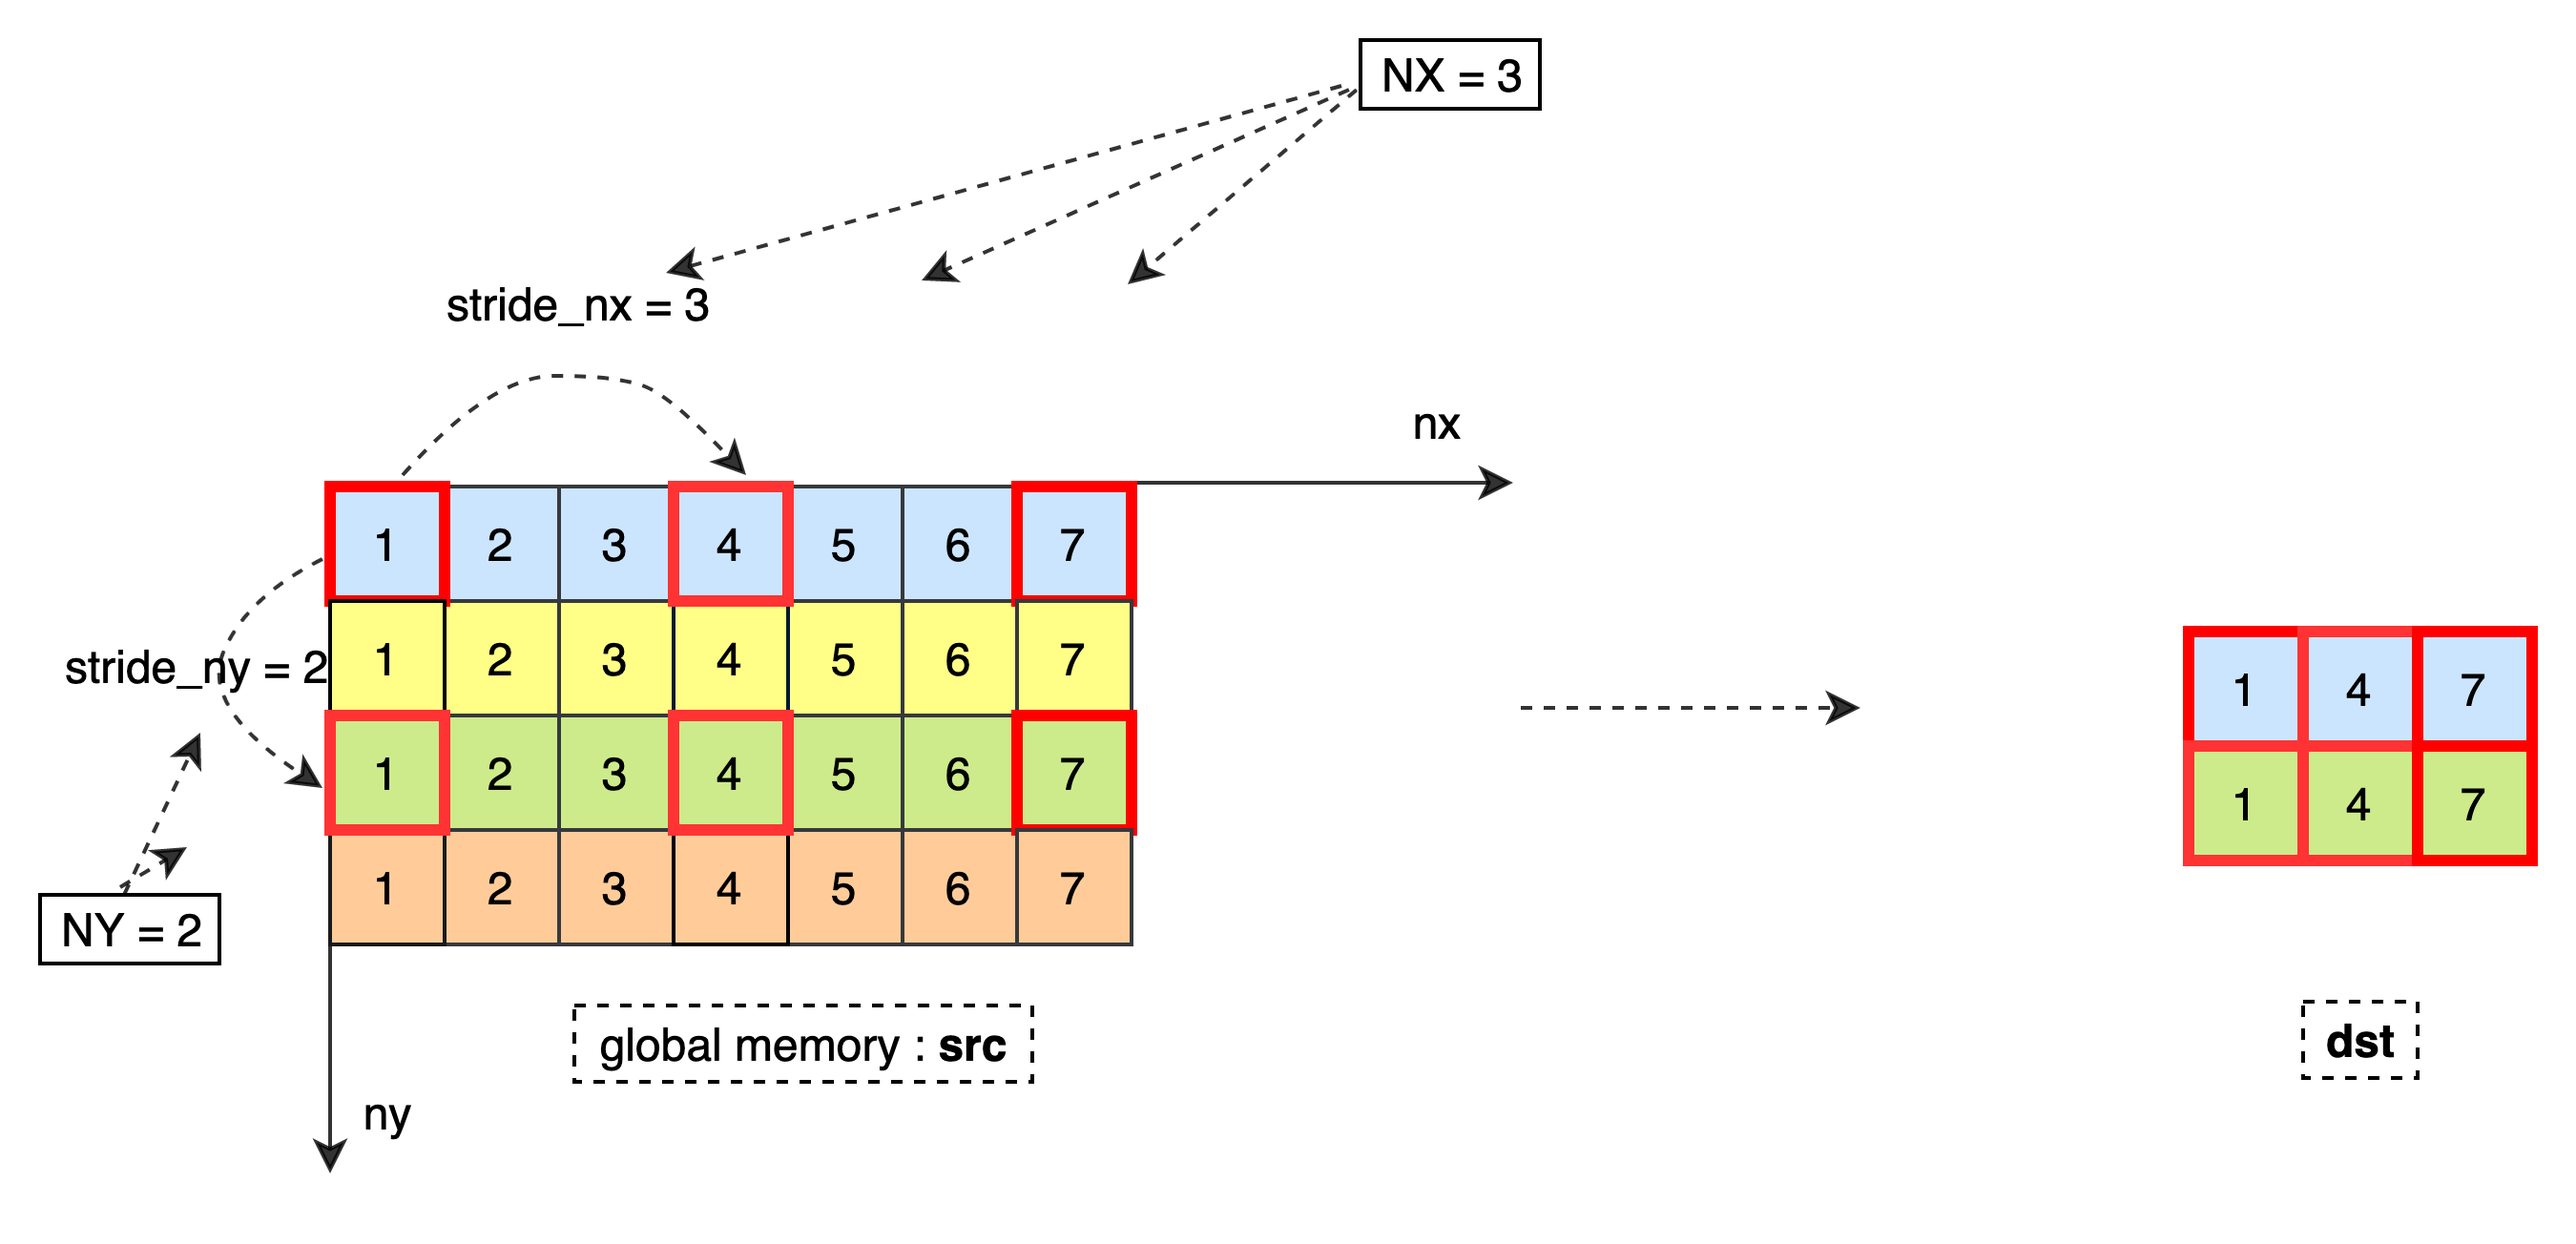
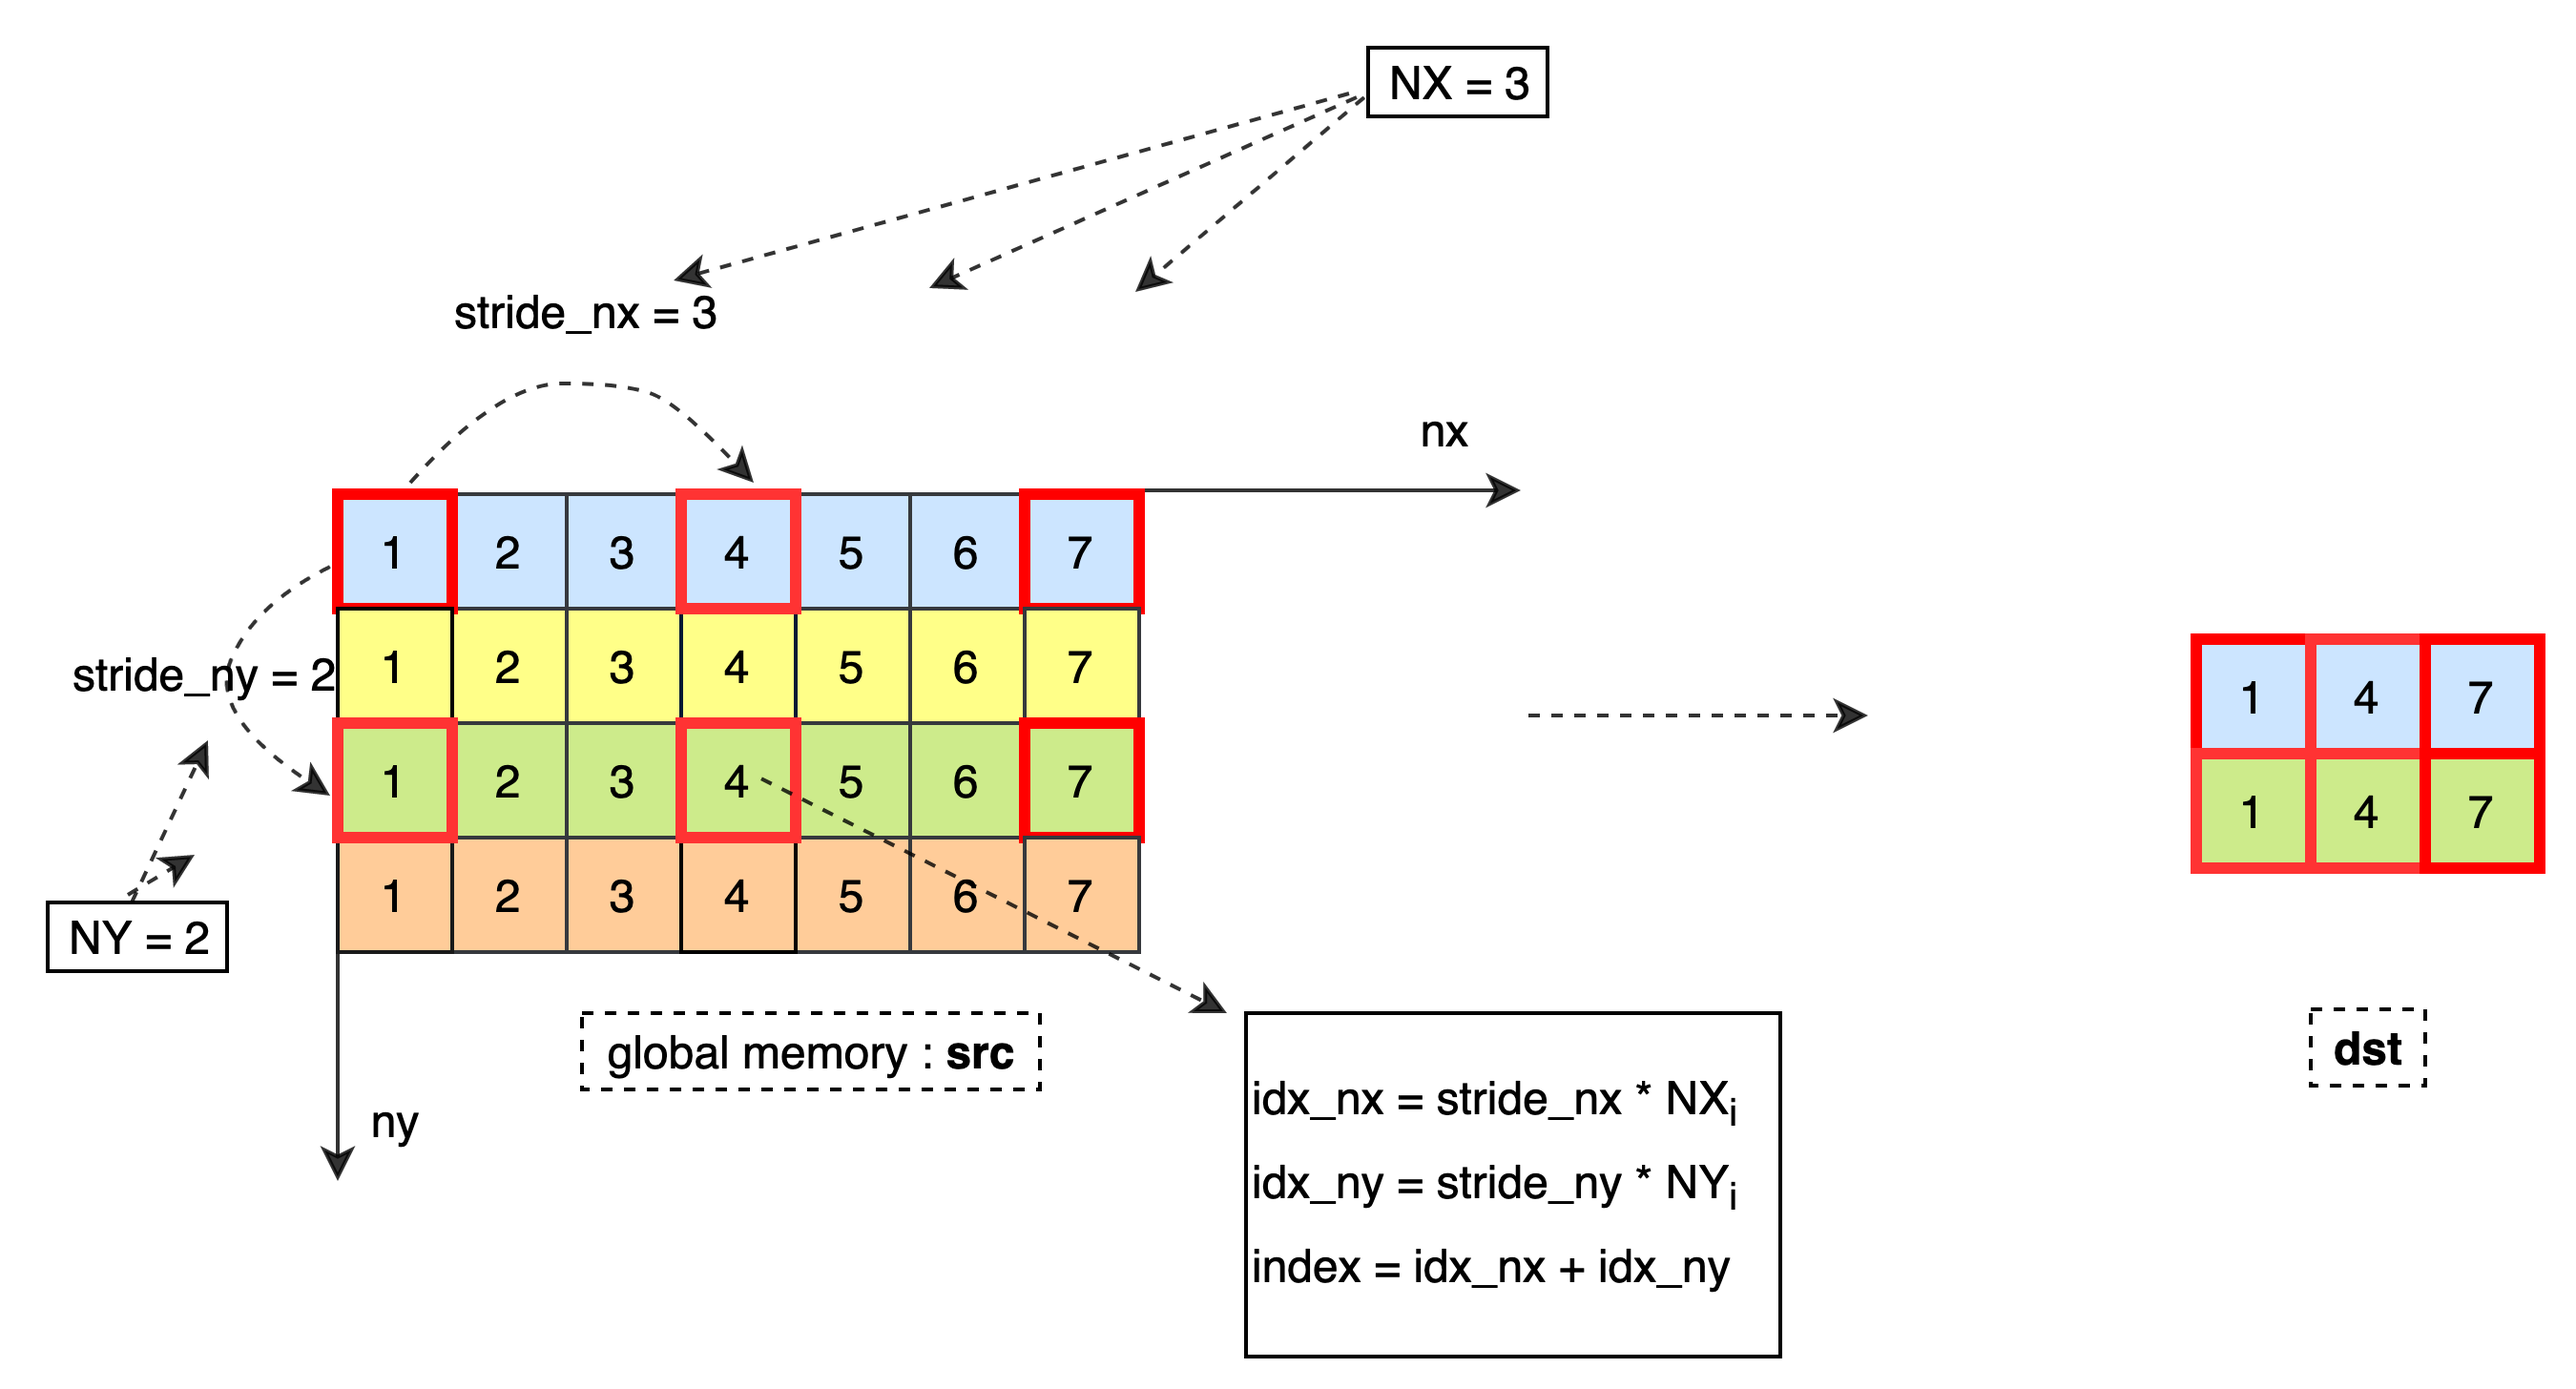
update image and notes

diff --git a/docs/guides/07_new_op/kernel_primitive_api/io_api_en.md b/docs/guides/07_new_op/kernel_primitive_api/io_api_en.md
@@ -10,7 +10,7 @@ __device__ void ReadData(Ty* dst, const Tx* src, int size_nx, int size_ny, int s
 
 ### Description
 
-Read the 2D data from the global memory to the register, and store it in the register dst according to the Ty type. Every reading of 1 column of data needs to shift the stride_nx columns, and every reading of NX columns of data needs to shift the stride_ny rows, until NX * NY data is loaded into the register dst. When IsBoundary = true, it is necessary to ensure that row offset of Block does not exceed size_ny, and columns offset does not exceed size_nx.</br>
+Read the Tx type 2D data from the global memory to the register, and store it in the register dst according to the Ty type. Each reading of 1 element in the lowest dimension requires an offset of stride_nx elements, and each reading of an element in the highest dimension requires an offset of stride_ny elements until NX * NY data is loaded into the register dst. When IsBoundary = true, it is necessary to ensure that the number of current highest dimension offsets does not exceed size_ny, and the number of column offsets does not exceed size_nx.
 The data processing process is as follows:</br>
 ![ReadData](./images/io_read_data_stride.png)
 
@@ -29,8 +29,8 @@ The data processing process is as follows:</br>
 > src: The input data pointer of the current Block, the data type is Tx, and the pointer calculation method is usually input + blockIdx.x * blockDim.x * NX. </br>
 > size_nx: Block needs to read size_nx columns data, the parameter is only used when IsBoundary = true. </br>
 > size_ny: Block needs to read size_ny rows data, the parameter is only used when IsBoundary = true. </br>
-> stride_nx: Each column of data read needs to be offset by the stride_nx columns. </br>
-> stride_ny: Each read NX columns needs to be offset by stride_nx rows. </br>
+> stride_nx: Stride_nx elements for every 1 element of the lowest dimension read. </br>
+> stride_ny: Stride_ny elements per read 1 element of the highest dimension read. </br>
 
 ## [ReadData](https://github.com/PaddlePaddle/Paddle/blob/develop/paddle/fluid/operators/kernel_primitives/datamover_primitives.h#L226)
 
@@ -97,8 +97,8 @@ The data processing process is as follows:</br>
 > block_offset: The data offset of the current Block, usually blockIdx.x * blockDim.x * NX. </br>
 > config: Input and output coordinate mapping function, which can be defined by BroadcastConfig(const std::vector<int64_t>& out_dims, const std::vector<int64_t>& in_dims, int dim_size). </br>
 > total_num_output: the total number of original output data, to avoid fetching out of bounds, the parameter is only used when IsBoundary = true. </br>
-> stride_nx: Each column of data read needs to be offset by the stride_nx columns. </br>
-> stride_ny: Each read NX columns needs to be offset by stride_nx rows. </br>
+> stride_nx: Stride_nx elements for every 1 element of the lowest dimension read. </br>
+> stride_ny: Stride_ny elements per read 1 element of the highest dimension read. </br>
 
 ## [ReadDataReduce](https://github.com/PaddlePaddle/Paddle/blob/develop/paddle/fluid/operators/kernel_primitives/datamover_primitives.h#L337)
 
@@ -149,8 +149,8 @@ The data processing process is as follows:</br>
 > config: Input and output coordinate mapping function, which can be defined as IndexCal(). </br>
 > size_nx: The Block needs to read the size_nx columns data. The parameter is only used when IsBoundary = true. </br>
 > size_ny: Block needs to read size_ny rows data, the parameter is only used when IsBoundary = true. </br>
-> stride_nx: Each column of data read needs to be offset by the stride_nx columns. </br>
-> stride_ny: Each read NX columns needs to be offset by stride_nx rows. </br>
+> stride_nx: Stride_nx elements for every 1 element of the lowest dimension read. </br>
+> stride_ny: Stride_ny elements per read 1 element of the highest dimension read. </br>
 > reduce_last_dim: Does the  operation involve the last dimension. When reduce_last_dim = true, it is indexed according to threadIdx.x, otherwise threadIdx.y is used. </br>
 
 ## [WriteData](https://github.com/PaddlePaddle/Paddle/blob/develop/paddle/fluid/operators/kernel_primitives/datamover_primitives.h#L421)

diff --git a/docs/guides/07_new_op/kernel_primitive_api/io_api_cn.md b/docs/guides/07_new_op/kernel_primitive_api/io_api_cn.md
@@ -10,7 +10,7 @@ __device__ void ReadData(Ty* dst, const Tx* src, int size_nx, int size_ny, int s
 
 ### 函数说明
 
-将 Tx 类型的 2D 数据从全局内存中读取到寄存器，并按照 Ty 类型存储到寄存器 dst 中。每读取 1 列数据需要偏移 stride_nx 列数据，每读取 NX 列数据需要偏移 stride_ny 行数据，直到加载 NX * NY 个数据到寄存器 dst 中。当 IsBoundary = true 需要保证当前 Block 行偏移不超过 size_ny，列偏移不超过 size_nx。</br>
+将 Tx 类型的 2D 数据从全局内存中读取到寄存器，并按照 Ty 类型存储到寄存器 dst 中。最低维每读取 1 个元素需要偏移 stride_nx 个元素，最高维每读取 1 个元素需要偏移 stride_ny 个元素，直到加载 NX * NY 个数据到寄存器 dst 中。当 IsBoundary = true 需要保证当前最高维偏移个数不超过 size_ny，列偏移个数不超过 size_nx。</br>
 数据处理过程如下：</br>
 
 ![ReadData](./images/io_read_data_stride.png)
@@ -30,8 +30,8 @@ __device__ void ReadData(Ty* dst, const Tx* src, int size_nx, int size_ny, int s
 > src ：当前 Block 的输入数据指针，数据类型为 Tx。</br>
 > size_nx ：Block 需要读取 size_nx 列数据，参数仅在 IsBoundary = true 时使用。</br>
 > size_ny ：Block 需要读取 size_ny 行数据，参数仅在 IsBoundary = true 时使用。</br>
-> stride_nx ：每读取 1 列数据需要偏移 stride_nx 列。</br>
-> stride_ny ：每读取 NX 列需要偏移 stride_nx 行。</br>
+> stride_nx ：最低维每读取 1 个元素 stride_nx 个元素。</br>
+> stride_ny ：最高维每读取 1 个元素 stride_ny 个元素。</br>
 
 ## [ReadData](https://github.com/PaddlePaddle/Paddle/blob/develop/paddle/fluid/operators/kernel_primitives/datamover_primitives.h#L226)
 
@@ -46,6 +46,7 @@ __device__ void ReadData(T* dst, const T* src, int num);
 
 将 T 类型的 1D 数据从全局内存 src 中读取到寄存器 dst 中。每次连续读取 NX 个数据，当前仅支持 NY = 1，直到加载 NX 个数据到寄存器 dst 中。当 IsBoundary = true 需要保证 Block 读取的总数据个数不超过 num，以避免访存越界。当 (NX % 4 = 0 或 NX % 2 = 0) 且 IsBoundary = false 时，会有更高的访存效率。</br>
 数据处理过程如下：</br>
+
 ![ReadData](./images/io_read_data.png)
 
 ### 模板参数
@@ -98,8 +99,8 @@ __device__ void ReadDataBc(T* dst, const T* src,
 > block_offset ：当前 Block的数据偏移。</br>
 > config ：输入输出坐标映射函数，可通过 BroadcastConfig(const std::vector<int64_t>& out_dims, const std::vector<int64_t>& in_dims, int dim_size) 进行定义。</br>
 > total_num_output ：原始输出的总数据个数,避免访存越界，参数仅在 IsBoundary = true 时使用。</br>
-> stride_nx ：每读取 1 列数据需要偏移 stride_nx 列。</br>
-> stride_ny ：每读取 NX 列需要偏移 stride_nx 行。</br>
+> stride_nx ：最低维每读取 1 个元素 stride_nx 个元素。</br>
+> stride_ny ：最高维每读取 1 个元素 stride_ny 个元素。</br>
 
 ## [ReadDataReduce](https://github.com/PaddlePaddle/Paddle/blob/develop/paddle/fluid/operators/kernel_primitives/datamover_primitives.h#L337)
 
@@ -150,8 +151,8 @@ __device__ void ReadDataReduce(T* dst,
 > config ；输入输出坐标映射函数，可以定义为 IndexCal()。</br>
 > size_nx ；Block 需要读取 size_nx 列数据，参数仅在 IsBoundary = true 时使用。</br>
 > size_ny ；Block 需要读取 size_ny 行数据，参数仅在 IsBoundary = true 时使用。</br>
-> stride_nx ；每读取 1 列数据需要偏移 stride_nx 列。</br>
-> stride_ny ；每读取 NX 列需要偏移 stride_nx 行。</br>
+> stride_nx ：最低维每读取 1 个元素 stride_nx 个元素。</br>
+> stride_ny ：最高维每读取 1 个元素 stride_ny 个元素。</br>
 > reduce_last_dim：原始输入数据的最低维是否进行reduce，当reduce_last_dim = true 按照 threadIdx.x 进行索引，否则使用 threadIdx.y。</br>
 
 ## [WriteData](https://github.com/PaddlePaddle/Paddle/blob/develop/paddle/fluid/operators/kernel_primitives/datamover_primitives.h#L421)
